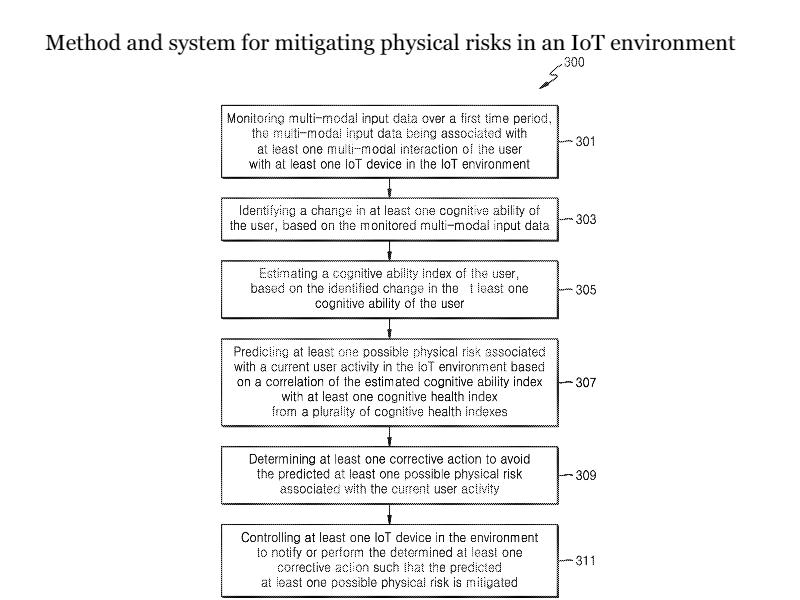
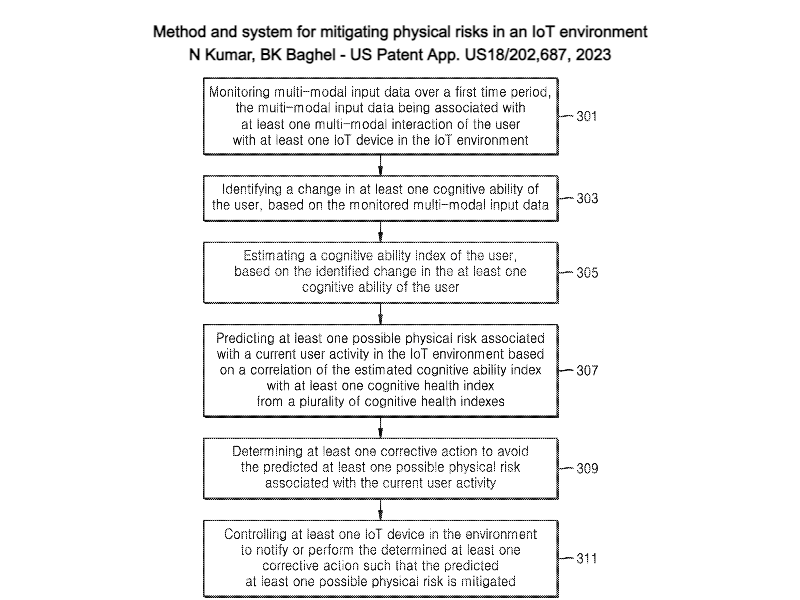
Added Patent

Changed region(s): [[0.0625, 0.03, 0.9375, 1.0]]

diff --git a/index.html b/index.html
@@ -450,9 +450,9 @@
 
           <div class="col-lg-4 col-md-6 portfolio-item filter-patent filter-2023">
             <div class="portfolio-wrap">
-              <img src="assets/img/publications/patent-2.png" class="img-fluid" alt="">
+              <img src="assets/img/publications/patent-2-title.png" class="img-fluid" alt="">
               <div class="portfolio-links">
-                <a href="assets/img/publications/patent-2-title.png" data-gallery="portfolioGallery" class="portfolio-lightbox" title='Filling Ongoing'><i class="bx bx-search-alt"></i></a>
+                <a href="assets/img/publications/patent-2.png" data-gallery="portfolioGallery" class="portfolio-lightbox" title='Method and system for mitigating physical risks in an IoT environment. N Kumar, BK Baghel - US Patent App. US18/202,687, 2023'><i class="bx bx-search-alt"></i></a>
                 <a href="https://patents.google.com/patent/US20230402187A1/en" title="More Details" target="_blank"><i class="bx bx-globe"></i></a>
               </div>
             </div>
